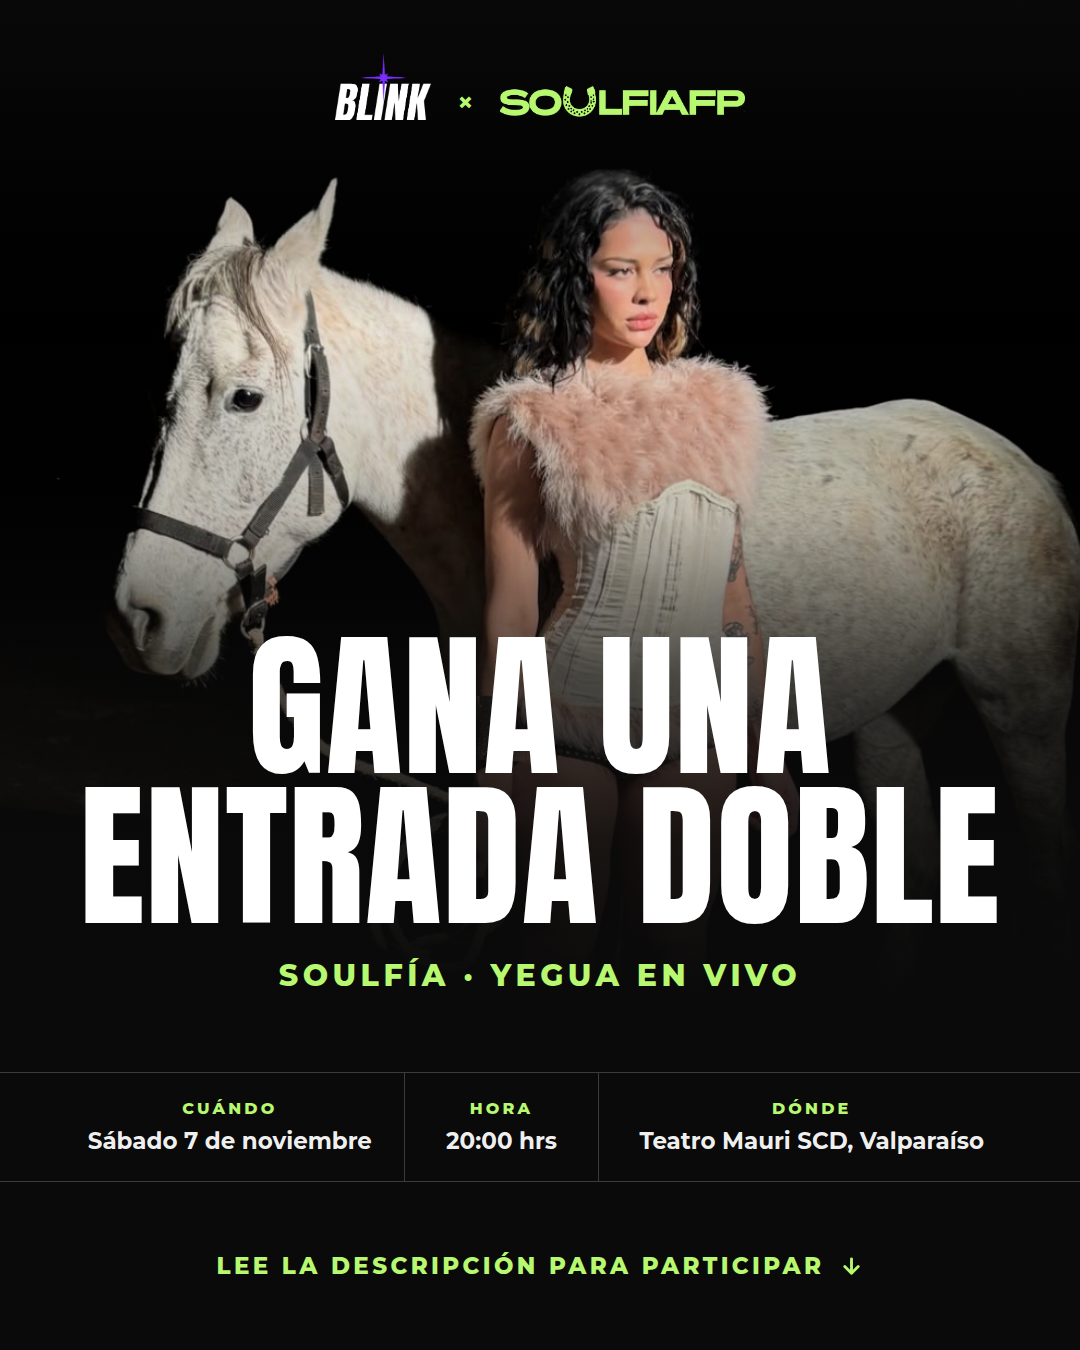
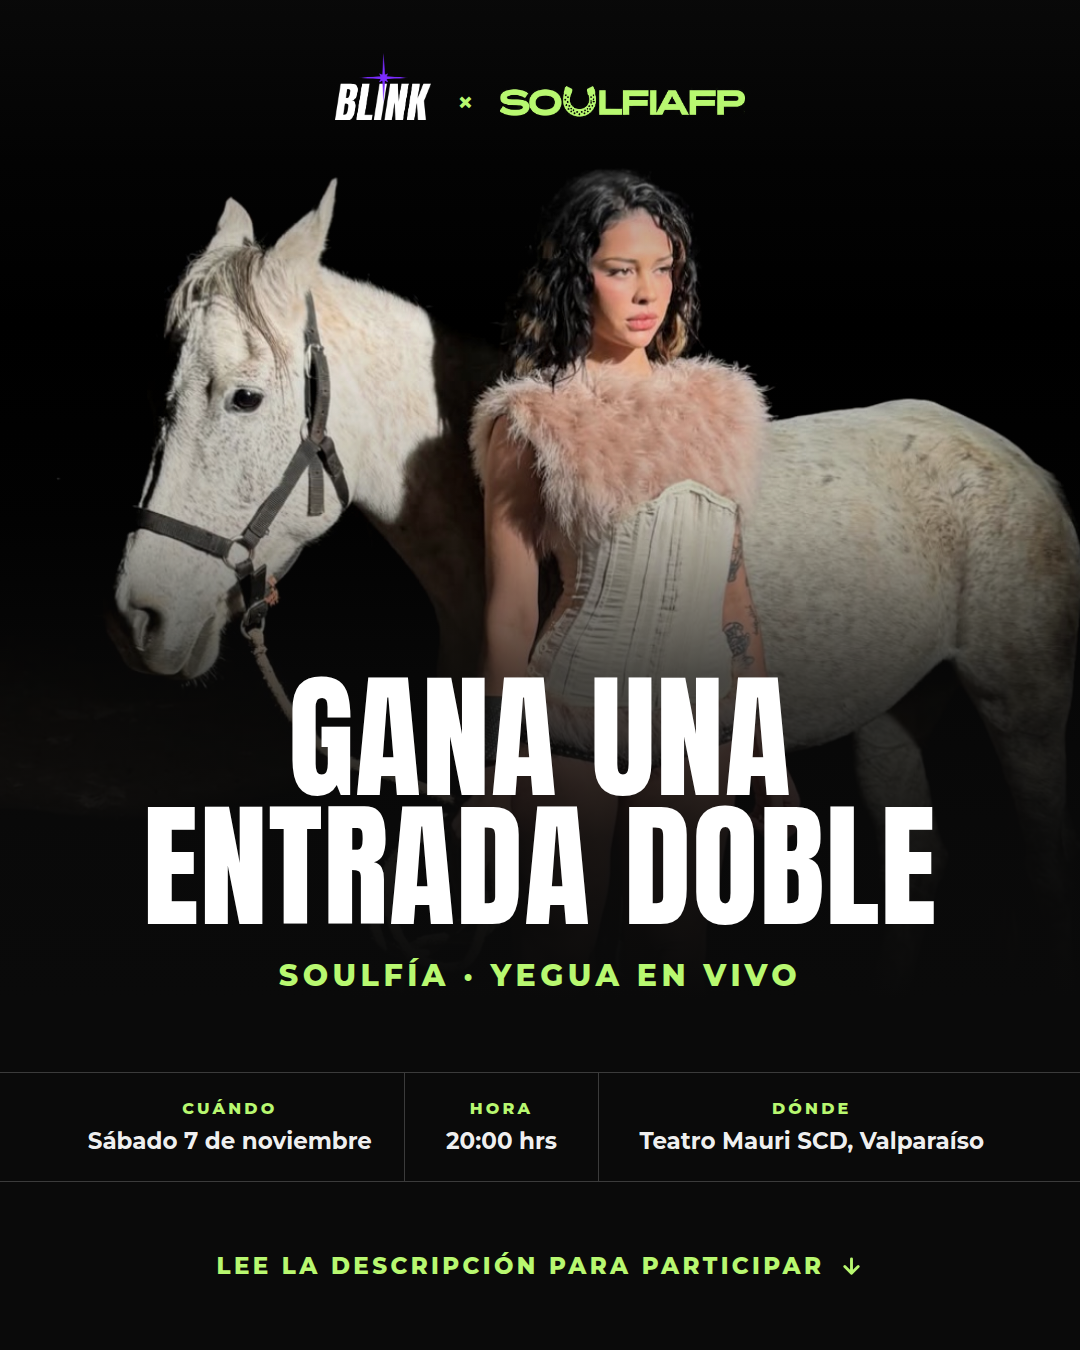
Concurso Soulfía: achicar el titular para que tape menos la foto
De 158 a 136 px. Al bajar también se acorta el bloque, así que queda más
aire entre el titular y la banda y se ve más de la imagen.

Claude-Session: https://claude.ai/code/session_01NF4PN4Z1tGA2GQg6PseM5W

Changed region(s): [[0.0611, 0.4667, 0.9472, 0.6844]]

diff --git a/concurso-soulfia.html b/concurso-soulfia.html
@@ -65,7 +65,7 @@
   }
   .titular{
     font-family:"Anton", sans-serif;
-    font-size:158px; line-height:.95; letter-spacing:1px;
+    font-size:136px; line-height:.95; letter-spacing:1px;
     color:var(--blanco); text-transform:uppercase;
   }
   .titular span{ display:block; }
@@ -152,7 +152,7 @@
 
 <script>
 (async function(){
-  await document.fonts.load("158px Anton");
+  await document.fonts.load("136px Anton");
   await document.fonts.load("800 30px Montserrat");
   await document.fonts.ready;
 
@@ -160,7 +160,7 @@
   // con el que quepan las dos. Ajustándolas por separado, la corta quedaba
   // grande y la larga achicada, y se notaba el escalón.
   const lineas = [...document.querySelectorAll(".titular span")];
-  let t = 158;
+  let t = 136;
   while (t > 90 && lineas.some(l => l.scrollWidth > 936)){
     t -= 2;
     lineas.forEach(l => { l.style.fontSize = t + "px"; });
